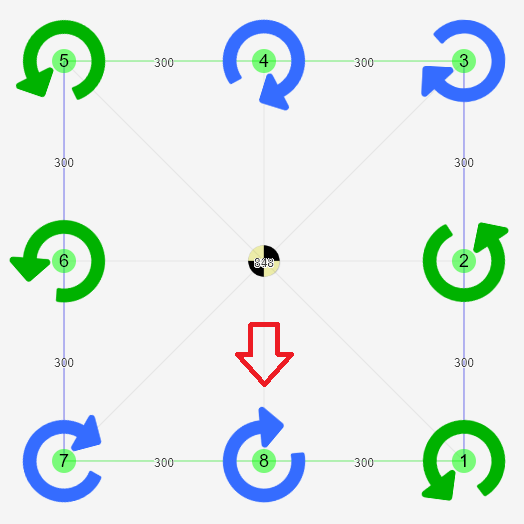
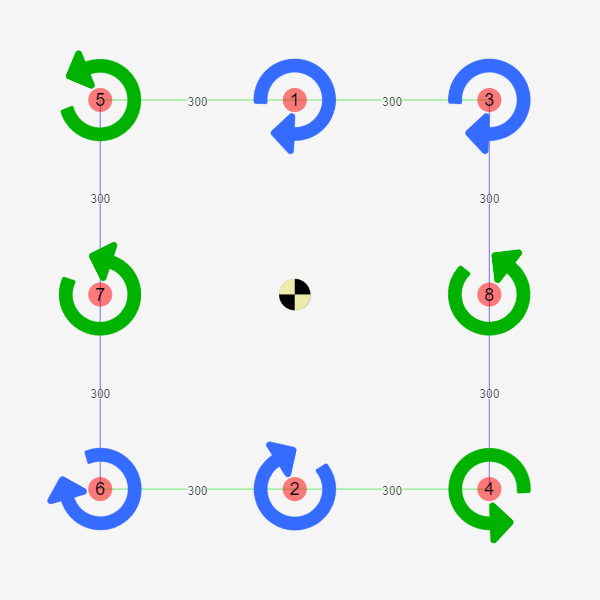
Change position of the motors for Space frame drone.
Change position of the motors for Space frame drone.
Because the before motor mount is not default for octocopter.
So, this changes is to default octocopter.

diff --git a/libraries/AP_Motors/AP_MotorsMatrix.cpp b/libraries/AP_Motors/AP_MotorsMatrix.cpp
@@ -741,14 +741,33 @@ void AP_MotorsMatrix::setup_motors(motor_frame_class frame_class, motor_frame_ty
                     break;
                 case MOTOR_FRAME_TYPE_SFD:
                     // Created from https://www.iforce2d.net/mixercalc/
-                    add_motor_raw(AP_MOTORS_MOT_1, 1, 1, AP_MOTORS_MATRIX_YAW_FACTOR_CCW, 1);
-                    add_motor_raw(AP_MOTORS_MOT_2, 1, 0, AP_MOTORS_MATRIX_YAW_FACTOR_CCW, 2);
-                    add_motor_raw(AP_MOTORS_MOT_3, 1, -1, AP_MOTORS_MATRIX_YAW_FACTOR_CW, 3);
-                    add_motor_raw(AP_MOTORS_MOT_4, 0, -1, AP_MOTORS_MATRIX_YAW_FACTOR_CW, 4);
-                    add_motor_raw(AP_MOTORS_MOT_5, -1, -1, AP_MOTORS_MATRIX_YAW_FACTOR_CCW, 5);
-                    add_motor_raw(AP_MOTORS_MOT_6, -1, 0, AP_MOTORS_MATRIX_YAW_FACTOR_CCW, 6);
-                    add_motor_raw(AP_MOTORS_MOT_7, -1, 1, AP_MOTORS_MATRIX_YAW_FACTOR_CW, 7);
-                    add_motor_raw(AP_MOTORS_MOT_8, 0, 1, AP_MOTORS_MATRIX_YAW_FACTOR_CW, 8);
+                    // Constraints
+                    /*
+                    * 1 3 300
+                    * 3 8 300
+                    * 8 4 300
+                    * 4 2 300
+                    * 2 6 300
+                    * 6 7 300
+                    * 7 5 300
+                    * 5 1 300
+                    * 1 3 h
+                    * 3 8 v
+                    * 8 4 v
+                    * 4 2 h
+                    * 2 6 h
+                    * 6 7 v
+                    * 7 5 v
+                    * 5 1 h
+                    */
+                    add_motor_raw(AP_MOTORS_MOT_1, 0, 1, AP_MOTORS_MATRIX_YAW_FACTOR_CW, 1);
+                    add_motor_raw(AP_MOTORS_MOT_2, 0, -1, AP_MOTORS_MATRIX_YAW_FACTOR_CW, 2);
+                    add_motor_raw(AP_MOTORS_MOT_3, -1, 1, AP_MOTORS_MATRIX_YAW_FACTOR_CW, 3);
+                    add_motor_raw(AP_MOTORS_MOT_4, -1, -1, AP_MOTORS_MATRIX_YAW_FACTOR_CCW, 4);
+                    add_motor_raw(AP_MOTORS_MOT_5, 1, 1, AP_MOTORS_MATRIX_YAW_FACTOR_CCW, 5);
+                    add_motor_raw(AP_MOTORS_MOT_6, 1, -1, AP_MOTORS_MATRIX_YAW_FACTOR_CW, 6);
+                    add_motor_raw(AP_MOTORS_MOT_7, 1, 0, AP_MOTORS_MATRIX_YAW_FACTOR_CCW, 7);
+                    add_motor_raw(AP_MOTORS_MOT_8, -1, 0, AP_MOTORS_MATRIX_YAW_FACTOR_CCW, 8);
                     break;
                 default:
                     // octa frame class does not support this frame type
